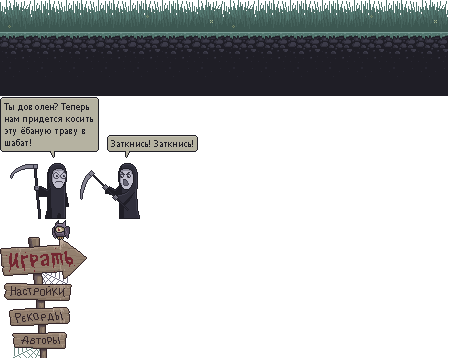
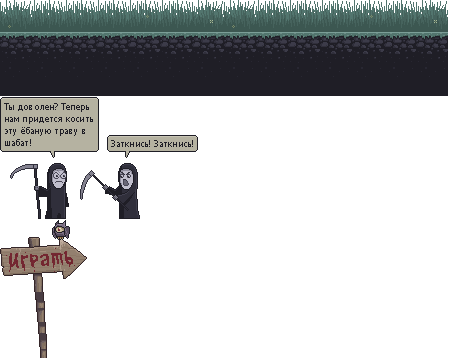
🚧  disable preferences & authors buttons

Changed region(s): [[0.0, 0.766, 0.1559, 1.0]]

diff --git a/src/states/Menu.js b/src/states/Menu.js
@@ -14,24 +14,49 @@ export default class extends Phaser.State {
     this.playBtn = this.game.add.button(this.menu.left, this.menu.top + 18, '__default', this.play, this)
     this.playBtn.width = 87
     this.playBtn.height = 41
-    this.preferencesBtn = this.game.add.button(this.menu.left + 4, this.menu.top + 63, '__default', this.preferences, this)
-    this.preferencesBtn.width = 68
-    this.preferencesBtn.height = 18
-    this.authorsBtn = this.game.add.button(this.menu.left + 12, this.menu.top + 112, '__default', this.authors, this)
-    this.authorsBtn.width = 55
-    this.authorsBtn.height = 17
+    // !!!: Additional buttons are transferred to next releases
+    //
+    // this.preferencesBtn = this.game.add.button(this.menu.left + 4, this.menu.top + 63, '__default', this.preferences, this)
+    // this.preferencesBtn.width = 68
+    // this.preferencesBtn.height = 18
+    // this.authorsBtn = this.game.add.button(this.menu.left + 12, this.menu.top + 112, '__default', this.authors, this)
+    // this.authorsBtn.width = 55
+    // this.authorsBtn.height = 17
 
     // play background music
     this.game.sounds.background.play()
+
+    // create menu section overlay
+    this.overlay = this.game.add.graphics(0, 0)
+    this.overlay.visible = false
+    this.overlay.beginFill(0x1f1e26)
+    this.overlay.fillAlpha = 0.8
+    this.overlay.drawRect(0, 0, this.game.width, this.game.height)
+    this.overlay.endFill()
+
+    // create headers
+    this.preferencesTitle = this.add.text(this.world.centerX, 32, 'Настройки')
+    this.authorsTitle = this.add.text(this.world.centerX, 32, 'Авторы'); // this semicolon placed here due to webpack :(
+
+    [this.preferencesTitle, this.authorsTitle].map(title => {
+      title.visible = false
+      title.font = 'Bangers'
+      title.fontSize = 32
+      title.fill = '#73727B'
+      title.smoothed = false
+      title.anchor.setTo(0.5)
+    })
   }
 
   play () {
     this.state.start('Game')
   }
   preferences () {
-    // preferences screen
+    this.playBtn.inputEnabled = false
+    this.overlay.visible = true
+    this.preferencesTitle.visible = true
   }
   authors () {
-    // uathors screen
+    // authors screen
   }
 }
